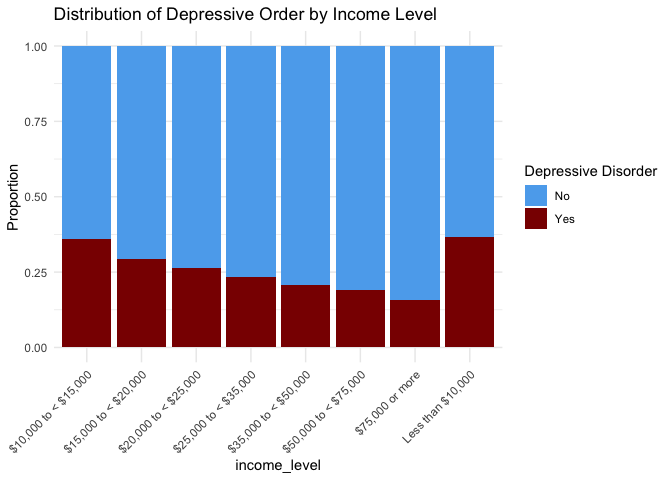
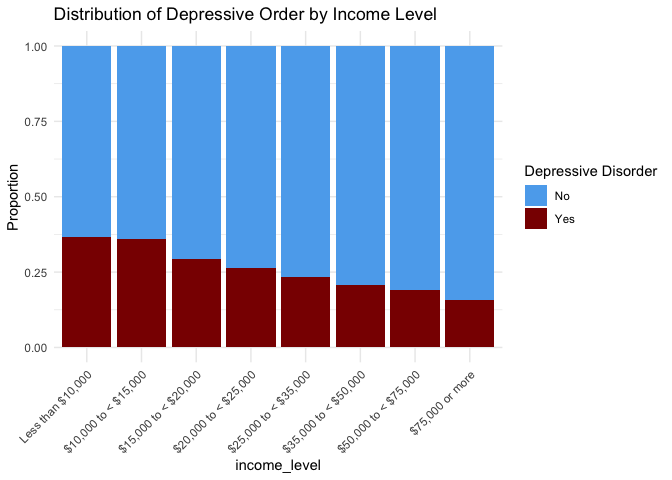
typos

diff --git a/final_report/Final_Report.md b/final_report/Final_Report.md
@@ -42,10 +42,10 @@ theme_set(theme_minimal() + theme(legend.position = "bottom"))
 
 The rapid expansion of legalized sports gambling in the United States
 has reshaped the landscape of professional sports. Since the Supreme
-Court ruled in 2018 to repeal of Professional and Amateur Sports
+Court ruled in 2018 to repeal the Professional and Amateur Sports
 Protection Act (PASPA), 39 states have legalized some form of sports
-wagering, generating billions in annual handle (total amount wagered).
-It feels like there is a new sports gambling scandal every month, most
+betting, generating billions in annual handle (total amount wagered). It
+feels like there is a new sports gambling scandal every month, most
 recently the [NBA gambling
 scandal](https://www.nytimes.com/2025/10/23/nyregion/nba-gambling-scandal-explained.html)
 and an ongoing debate over [NCAA
@@ -53,57 +53,64 @@ rules](https://www.espn.com/college-sports/story/_/id/46762598/ncaa-delays-rule-
 regarding athlete gambling, involving the increasingly popular
 player-specific proposition “prop” bets. Despite industry claims that
 legalization promotes consumer protections and tax revenue, concerns
-persist that widespread access may increase gambling participation,
-financial harm, and mental health burdens.
+persist that widespread access may lead to an increase in gambling
+participation and adverse financial and health outcomes.
 
 This project, “The House Always Wins? Exploring the Societal Costs of
 Legal Sports Gambling,” investigates the public health implications of
-this policy shift. Building on prior scholarship, we integrate BRFSS
-data, state-level gambling policy information, and market activity to
-examine how legalization relates to self-reported mental health outcomes
-and population-level risk profiles. By combining behavioral surveillance
+this policy shift. Building on prior scholarship, we integrate
+Behavioral Risk Factor Surveillance System (BRFSS) data, state-level
+gambling policy information, and market activity to examine how
+legalization relates to self-reported mental health outcomes and
+population-level risk profiles. By combining behavioral surveillance
 data with policy variation across states, the project aims to generate
-empirical evidence on how sports gambling laws shape population health.
+empirical evidence on how sports gambling laws trend with population
+health.
 
 # 2. Related work
 
-Recent studies have begun to quantify the broader consequences of
-legalized sports gambling. [Couture, Cross, and Wu
+Recent studies have quantified the broader consequences of legalized
+sports gambling. [Couture, Cross, and Wu
 (2024)](https://ssrn.com/abstract=4865678) used BRFSS data to examine
 whether sports betting is associated with poorer mental health, focusing
 specifically on self-reported mentally unhealthy days in states that
 legalized before the COVID-19 pandemic. They found that the impact of
 legalized sports gambling on the probability of reporting a poor mental
-health day was stratified by sex and age with Males 20-34 were found to
-be most at risk with an increased likelihood of 3.8%. [Hollenbeck,
-Larson and Proserpio (2025)](https://ssrn.com/abstract=4903302)
-complements this by analyzing the financial consequences of legalized
-sports gambling, documenting increases in consumer losses and household
-financial strain following legalization. Although differing in outcomes,
-both papers leverage the staggered, state-by-state rollout of
-legalization to identify causal effects. Together, these findings
-suggest that both mental health and financial well-being may be
-adversely affected by the expansion of sports wagering, underscoring the
-need for broader, population-level analyses such as the one undertaken
-in this project.
+health day was stratified by sex and age. Men between the ages of 20-34
+were found to be most at risk with an increased likelihood of 3.8%.
+[Hollenbeck, Larson and Proserpio
+(2025)](https://ssrn.com/abstract=4903302) complements this by analyzing
+the financial consequences of legalized sports gambling, documenting
+increases in consumer losses and household financial strain following
+legalization. Although differing in outcomes, both papers leverage the
+staggered, state-by-state rollout of legalization to identify causal
+effects. Together, these findings suggest that both mental health and
+financial well-being may be adversely affected by the expansion of
+sports wagering, underscoring the need for broader, population-level
+analyses such as the one undertaken in this project.
 
 # 3. Initial questions
 
-#### What questions are you trying to answer? How did these questions evolve over the course of the project? What new questions did you consider in the course of your analysis?
+Initial Questions:
 
-Initial Questions: 1. What are the trends in the amount of money wagered
-(handle) across states that have legalized sports gambling? 2. Does
-legalized sports gambling have a negative effect on public health
-outcomes? This involves analyzing changes in rates of depression (or
-other mental disorders), domestic violence, and substance abuse in
-states where sports betting is legal. 3. Using the each state’s
-legalization date (if one exists) as the inflection point, are these
-health outcomes stratified by demographics (age, sex, race, tax bracket,
-and education level) and state?
+1.  What are the trends in the amount of money wagered (handle) across
+    states that have legalized sports gambling?
 
-New Questions: 1. How are health outcomes associated with each other?
-Are there patterns between variables that may help inform what to
-control for in future analyses?
+2.  Does legalized sports gambling have a negative effect on public
+    health outcomes? This involves analyzing changes in rates of
+    depression (or other mental disorders), domestic violence, and
+    substance abuse in states where sports betting is legal.
+
+3.  Using the each state’s legalization date (if one exists) as the
+    inflection point, are these health outcomes stratified by
+    demographics (age, sex, race, tax bracket, and education level) and
+    state?
+
+New Questions:
+
+1.  How are health outcomes associated with each other? Are there
+    patterns between variables that may help inform what to control for
+    in future analyses?
 
 # 4. Data
 
@@ -138,36 +145,59 @@ aggregate data for all states. There were a few states with no data
 Across the years, there have been many iterations of the BRFSS survey,
 in terms of variable coding and questions asked. As a result, extensive
 cleaning and standardization was required. This process was handled with
-several `source` files. More detailed explanations of this process are
-available in `brfss_data_exploration.Rmd` and `brfss_data_cleaning.Rmd`.
+several
+[source](https://github.com/shivalikachavan/p8105_final/tree/main/source)
+files. More detailed explanations of this process are available in
+[brfss_data_exploration.Rmd](https://github.com/shivalikachavan/p8105_final/blob/main/eda/brfss_data_exploration.Rmd)
+and
+[brfss_data_cleaning.Rmd](https://github.com/shivalikachavan/p8105_final/blob/main/eda/brfss_data_cleaning.Rmd).
 
-- `standardize_brfss_variable.R`: This function renames variables that
-  have more than one version of the same variable (e.g. `HLTHPL1` and
-  `HLTHPL2`). Seeing that the variables differed in name only (the
-  responses were coded in the same way), this was handled by renaming
-  different versions to the single standardized name.
-  (e.g. `hlthpl_standard`).
-- `filter_brfss_data.R`: This function keeps the key variables for our
-  study (unique survey identifiers, demographic/predictor variables,
-  health/financial outcomes variables). It also filters for completed
-  interviews (`dispcode = 1100`) and converts the date of the interview
-  to a Date type variable.
-- `load_clean_brfss_data.R`: This function is used to load the cleaned
-  data set into R by recoding variables (e.g. `1 ~ "Male"`), and
-  connects the date of each interview to the status of legalization in
-  that state. This `sb_legal` treatment variable is added by merging
-  with `state_legalization_dates.csv`.
+- [standardize_brfss_variable.R](https://github.com/shivalikachavan/p8105_final/blob/main/source/standardize_brfss_variable.R):
+  This function renames variables that have more than one version of the
+  same variable (e.g. `HLTHPL1` and `HLTHPL2`). Seeing that the
+  variables differed in name only (the responses were coded in the same
+  way), this was handled by renaming different versions to the single
+  standardized name. (e.g. `hlthpl_standard`).
+- [filter_brfss_data.R](https://github.com/shivalikachavan/p8105_final/blob/main/source/filter_brfss_data.R):
+  This function keeps the key variables for our study (unique survey
+  identifiers, demographic/predictor variables, health/financial
+  outcomes variables). It also filters for completed interviews
+  (`dispcode = 1100`) and converts the date of the interview to a Date
+  type variable.
+- [load_clean_brfss_data.R](https://github.com/shivalikachavan/p8105_final/blob/main/source/load_clean_brfss.R):
+  This function is used to load the cleaned data set into R by recoding
+  variables (e.g. `1 ~ "Male"`), and connects the date of each interview
+  to the status of legalization in that state. This `sb_legal` treatment
+  variable is added by merging with
+  [state_legalization_dates.csv](https://github.com/shivalikachavan/p8105_final/blob/main/data/legal_sports_report/state_legalization_dates.csv).
 
 Our analyses focuses on the following cleaned variable groups:
 
 - Treatment Variable: `sb_legal` (`1` if the interview was conducted
   after the state legalized sports betting (rounded to the first of the
-  motnh), `0` if it was before, and `NA` if the state has yet to
+  month), `0` if it was before, and `NA` if the state has yet to
   legalize sport betting)
+
 - Outcome Variables: `mental_health_not_good_days`,
   `physical_health_not_good_days`, `depressive_disorder`, and
   `binge_drink`. In some cases, a binary version of these variables was
-  used (1 if the participant has the outcome, 0 if not).
+  used (1 if the participant has the outcome, 0 if not):
+
+  - *At least 1 poor mental health day*: “Now thinking about your mental
+    health, which includes stress, depression, and problems with
+    emotions, for how many days during the past 30 days was your mental
+    health not good?”
+  - *At least 1 poor physical health day*: “Now thinking about your
+    physical health, which includes physical illness and injury, for how
+    many days during the past 30 days was your physical health not
+    good?”
+  - *Depression*: “Has a doctor or other health professional ever told
+    you that you had a depressive disorder, including depression, major
+    depression, dysthymia, or minor depression?”
+  - *Binge Drinking:* “Considering all alcoholic beverages that you
+    drink, on average, how many times per month do you have 5 (for men)
+    or 4 (for women) or more drinks on one occasion?”
+
 - Predictors: any demographic variables (sex, age group, education
   level, etc.)
 
@@ -569,22 +599,6 @@ outcome variable. This also follows what Couture, et. al. used in their
 analysis. It also simplified statistical tests that we decided to do
 later on.
 
-We are using the 4 following health outcomes:
-
-- *At least 1 poor mental health day*: “Now thinking about your mental
-  health, which includes stress, depression, and problems with emotions,
-  for how many days during the past 30 days was your mental health not
-  good?”
-- *At least 1 poor physical health day*: “Now thinking about your
-  physical health, which includes physical illness and injury, for how
-  many days during the past 30 days was your physical health not good?”
-- *Depression*: “Has a doctor or other health professional ever told you
-  that you had a depressive disorder, including depression, major
-  depression, dysthymia, or minor depression?”
-- *Binge Drinking:* “Considering all alcoholic beverages that you drink,
-  on average, how many times per month do you have 5 (for men) or 4 (for
-  women) or more drinks on one occasion?”
-
 ##### Correlation Analysis
 
 To understand relationships among the health outcome variables in the
@@ -675,9 +689,9 @@ cor(brfss_all,
     lab = TRUE,
     lab_size = 2.5,
     tl.cex = 10,
-    title = "Correlations",
-    theme(plot.title = element_text(hjust = 0.5))
-  )
+    title = "Correlations"
+  ) +
+  theme(plot.title = element_text(hjust = 0.5))
 ```
 
 ![](Final_Report_files/figure-gfm/unnamed-chunk-12-1.png)<!-- -->
@@ -698,18 +712,19 @@ days.
 On the other hand, `heavy_drink` and `binge_drink` showed weak
 correlations with most other health outcomes.
 
-\* BRFSS contains a variable general_health which is a Likert scale from
-1-6 with 1 being “Good Health” and 6 being “Poor Health.” There is also
-a refactored general_health column with 1 being “Good Health” and 2
-being “Poor Health.” `general_health_refactored` shows negative
+Note: BRFSS contains a variable `general_health` which is a Likert scale
+from 1-6 with 1 being “Good Health” and 6 being “Poor Health.” There is
+also a `general_health_refactored` column with 1 being “Good Health” and
+2 being “Poor Health.” `general_health_refactored` shows negative
 correlations with variables like `physical_health` and `mental_health`.
 As general health gets better (lower score), the number of bad health
 days goes up. This is an unexpected result. We can see that
-general_health has little correlation between most other health
-outcomes, which was surprising. We assume these trends we see in
-`general_health_refactored` may not be accurate as `general_health`
-shows minimal correlation. If we were to do future analyses, we would
-want to use the narrowly defined variable `general_health.`
+`general_health` has little correlation between most other health
+outcomes, which was surprising. We may be seeing these trends since
+`general_health_refactored` has fewer, more broadly defined categories.
+The more narrowly defined `general_health` shows minimal correlation. If
+we were to do future analyses, we would want to use the narrowly defined
+variable `general_health.`
 
 ##### Distribution of Primary Health Outcomes by Demographic Variables
 
@@ -792,6 +807,20 @@ plot_physical_health = function(brfss_data, demo_var, plot_title) {
 plot_depression = function(demo_var, plot_title) {
   
     brfss_data |> 
+    mutate(
+      income_level = factor(
+        income_level,
+        levels = c(
+          "Less than $10,000",
+          "$10,000 to < $15,000",
+          "$15,000 to < $20,000",
+          "$20,000 to < $25,000",
+          "$25,000 to < $35,000",
+          "$35,000 to < $50,000",
+          "$50,000 to < $75,000",
+          "$75,000 or more")
+        )
+      ) |> 
     drop_na(depressive_disorder) |> 
     drop_na(.data[[demo_var]]) |> 
   
@@ -852,7 +881,7 @@ plot_mental_health(
 
 The 18-24 and 25-29 age groups have the largest proportion of
 individuals reporting 1-13 and 14+ bad mental health days. Younger
-adults experience the highest frequency of bad mental health days, while
+adults report the highest frequency of bad mental health days, while
 older adults report the lowest.
 
 Looking at the distribution of bad physical health days by sex:
@@ -889,7 +918,7 @@ plot_depression(
 
 ![](Final_Report_files/figure-gfm/unnamed-chunk-16-1.png)<!-- -->
 
-The lowest-income groups (less than \$10,000 and \$10,000–\<\$15,000)
+The lowest-income groups (less than \$10,000 and \$10,000 to \<\$15,000)
 have the highest proportions of individuals reporting a depressive
 disorder. As income decreases, the proportion of respondents with
 depressive disorder increases.
@@ -1281,8 +1310,6 @@ pred_df |>
 
 # 7. Discussion
 
-#### What were your findings? Are they what you expect? What insights into the data can you make?
-
 Overall, we found a significant relationship between legalization of
 sports betting and poor physical/mental health. It is important to note
 that in our statistical analyses, even if the effect size was small, we
@@ -1315,9 +1342,9 @@ than the general population. This makes sense intuitively. However, the
 change in the rate after legalization was similar to the overall change.
 
 When put together, these tests of proportion suggest that health
-outcomes have worsened since 2017 across the US overall. These result do
-not show that sports betting legalization changes these trends beyond
-what is observed temporally.
+outcomes have worsened since 2017 across the US overall. These results
+do not show that sports betting legalization changes these trends beyond
+what is observed temporally at the national level.
 
 However, this conclusion is modified when we look at the relative risk
 of adverse health outcomes in 2024:
@@ -1335,10 +1362,10 @@ Each of these results also show that there is a statistically
 significant relationship between the status of sports betting
 legalization and health outcomes:
 
-- At least 1 day of poor physical health: 5.08e-05
-- At least 1 day of poor mental health: 1.61e-08
-- Depression: 5.17e-04
-- Binge Drinking: 1.75e-10
+- At least 1 day of poor physical health: p = 5.08e-05
+- At least 1 day of poor mental health: p = 1.61e-08
+- Depression: p = 5.17e-04
+- Binge Drinking: p = 1.75e-10
 
 The regression model showed baseline differences in mental health
 between sexes and age groups as well as the effects of legalized sports
@@ -1348,11 +1375,11 @@ age coefficients are negative, meaning older groups report fewer
 mentally unhealthy days than 18–24-year-olds, This matches known
 demographic patterns typical in BRFSS mental health data.
 
-The overall effect of sports betting legality (`sb_legal`) was 0.054
-0.053 (p \< 0.001) 8.06e-55. In the reference group (female, age 18–24),
-living in a state where sports betting is legal is associated with a
-+5.4 5.2615068 percentage point higher probability of reporting ≥1
-mentally unhealthy day in the past month.
+The overall effect of sports betting legality (`sb_legal`) was 0.053 p =
+8.06e-55. In the reference group (female, age 18–24), living in a state
+where sports betting is legal is associated with a 5.262 percentage
+point higher probability of reporting ≥1 mentally unhealthy day in the
+past month.
 
 There is no meaningful difference in the effect of sports betting
 legalization between men and women. The coefficient is tiny (0.0019712)
@@ -1431,7 +1458,7 @@ unhealthy days, especially among adults aged 25–44. The effect size is
 around 5–8 percentage points, depending on age group. Men and women are
 affected similarly, which doesn’t align with the Couture et
 al. findings, likely because we were looking at a larger dataset which
-included post-COVID observations. Younger adults (18–24) have the
+included post-COVID-19 observations. Younger adults (18–24) have the
 highest baseline mental health risk, but legalization effects are
 somewhat stronger for those 25–44. These associations cannot establish
 causality (due to cross-sectional BRFSS data), but they indicate a
@@ -1447,10 +1474,10 @@ may introduce recall bias and response bias. Respondents may
 inaccurately recall their health over the past 30 days and under-report
 sensitive behaviors due to stigma.
 
-The study period includes the COVID pandemic which potentially serves as
-a major confounding event. Changes in health outcomes related to the
+The study period includes the COVID-19 pandemic which potentially serves
+as a major confounding event. Changes in health outcomes related to the
 pandemic may coincide with legalization, confounding associations. Our
-exposure variable, sb_legal does not account for individual sports
+exposure variable, `sb_legal` does not account for individual sports
 betting behavior or the level/intensity of exposure, therefore, which
 only allowed us to address population-level associations based on
 legalization exposure.
